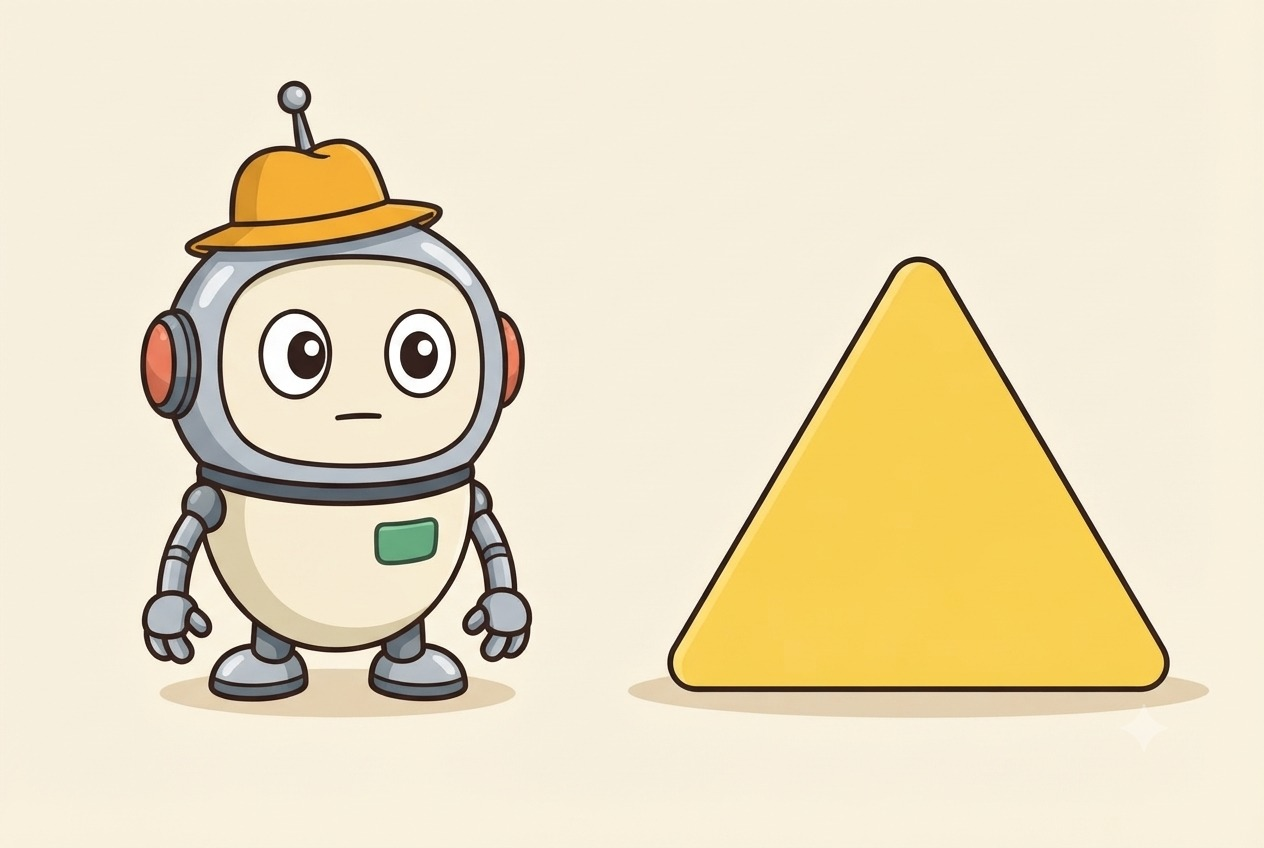
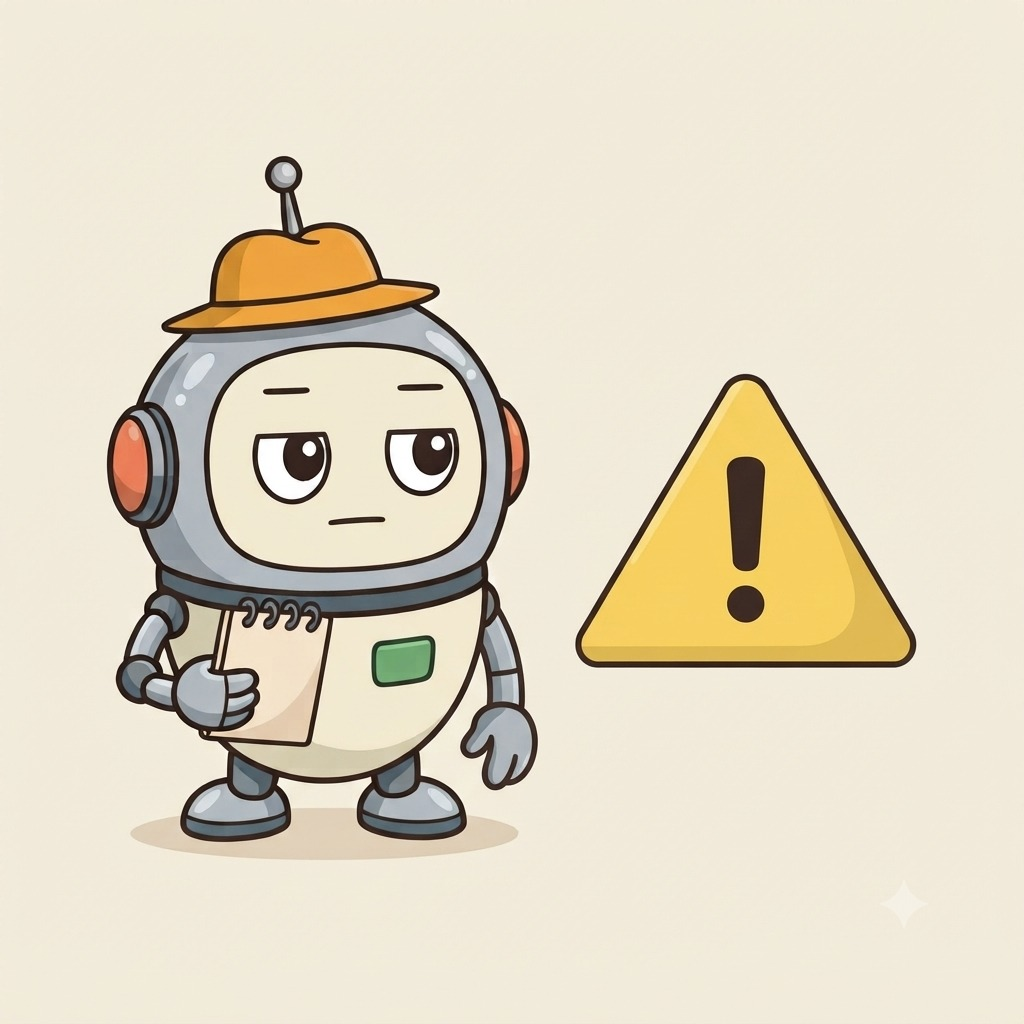
Comic v2: consistent text, calm art for serious stories, sensitive flag

Changed region(s): [[0.0938, 0.092, 0.9688, 0.8585]]

diff --git a/PanelPulse_v2/comic.py b/PanelPulse_v2/comic.py
@@ -2,6 +2,7 @@ import html
 import re
 from functools import lru_cache
 from pathlib import Path
+from urllib.parse import urlparse
 
 from PIL import Image, ImageDraw, ImageFont, ImageOps
 
@@ -9,7 +10,7 @@ DARK = "#263238"
 
 # ---- Layout numbers ----
 W, H = 2000, 2000
-HEADER = 100
+HEADER = 120
 MARGIN = 30
 PANEL_W = (W - 3 * MARGIN) // 2
 PANEL_H = (H - HEADER - 3 * MARGIN) // 2
@@ -47,9 +48,9 @@ def make_panels(headline, summary):
     headline = clean_text(headline)
     sentences = split_sentences(clean_text(summary))
     sentences = [s for s in sentences if not same_text(s, headline)]
-    key_fact = sentences[0] if len(sentences) > 0 else "The source has more details."
+    key_fact = sentences[0] if len(sentences) > 0 else "Full details are in the article."
     why = (sentences[1] if len(sentences) > 1
-           else "The feed gave only a short summary, so the details are in the full article.")
+           else "Read the full article for more details.")
     return [
         {"title": "The headline",   "caption": headline},
         {"title": "The key fact",   "caption": key_fact},
@@ -74,28 +75,60 @@ def wrap_text(text, font, max_width):
         else:
             if line:
                 lines.append(line)
-            line = word
+            line = ""
+            for character in word:
+                test = line + character
+                if line and _measure.textlength(test, font=font) > max_width:
+                    lines.append(line)
+                    line = character
+                else:
+                    line = test
     if line:
         lines.append(line)
     return lines
 
-def draw_caption(text, box, start_size=40, min_size=20):
-    left, top, right, bottom = box
-    width, height = right - left, bottom - top
+
+def _ellipsize(text, font, max_width):
+    suffix = "..."
+    while text and _measure.textlength(text + suffix, font=font) > max_width:
+        text = text[:-1]
+    return text.rstrip() + suffix
+
+
+def find_caption_font_size(captions, width, height, start_size=72, min_size=28):
     for size in range(start_size, min_size - 1, -2):
         font = load_font(size)
-        lines = wrap_text(text, font, width)
-        line_height = int(size * 1.25)
-        if len(lines) * line_height <= height:
-            break
+        line_height = max(1, int(size * 1.2))
+        if all(
+            len(wrap_text(caption, font, width)) * line_height <= height
+            for caption in captions
+        ):
+            return size
+    return min_size
+
+
+def draw_caption(text, box, font_size):
+    left, top, right, bottom = box
+    width, height = right - left, bottom - top
+    font = load_font(font_size)
+    line_height = max(1, int(font_size * 1.2))
+    lines = wrap_text(text, font, width)
+
     max_lines = max(1, height // line_height)
     if len(lines) > max_lines:
         lines = lines[:max_lines]
-        lines[-1] = lines[-1].rstrip(".,") + "..."
-    y = top
-    for line in lines:
-        draw.text((left, y), line, font=font, fill=DARK)
-        y += line_height
+        lines[-1] = _ellipsize(lines[-1], font, width)
+
+    for index, line in enumerate(lines):
+        draw.text((left, top + index * line_height), line, font=font, fill=DARK)
+
+
+def draw_panel_title(title, x, y, max_width):
+    for size in range(56, 27, -2):
+        font = load_font(size)
+        if _measure.textlength(title, font=font) <= max_width:
+            break
+    draw.text((x, y), title, font=font, fill=DARK)
 
 
 # =====================  PART 2: TOPIC (step 6)  =====================
@@ -118,6 +151,14 @@ TOPIC_WORDS = {
     "transport": ["flight", "train", "metro", "airport", "railway", "traffic"],
 }
 
+TRAGIC_WORDS = [
+    "killed", "dead", "death", "dies", "died", "murder", "blast",
+    "fire", "crash", "accident", "flood", "injured", "collapse",
+]
+SERIOUS_TOPICS = {"warning", "weather", "law", "health"}
+CHECKMARK_TOPICS = {"money", "school", "sports", "newspaper"}
+
+
 def pick_topic(headline, summary=""):
     text = ((headline + " ") * 2 + summary).lower()
     best_topic, best_score = "newspaper", 0
@@ -129,13 +170,55 @@ def pick_topic(headline, summary=""):
             best_topic, best_score = topic, score
     return best_topic
 
-def panel_plan(topic):
-    scene = "magnifier" if topic == "newspaper" else topic
+
+def is_serious_story(headline, summary="", topic=None):
+    if topic is None:
+        topic = pick_topic(clean_text(headline), clean_text(summary))
+    if topic in SERIOUS_TOPICS:
+        return True
+    story_text = f"{clean_text(headline)} {clean_text(summary)}"
+    tragic_pattern = r"\b(?:" + "|".join(map(re.escape, TRAGIC_WORDS)) + r")\b"
+    return re.search(tragic_pattern, story_text, flags=re.IGNORECASE) is not None
+
+
+def panel_plan(topic, sensitive=False):
+    serious = sensitive or topic in SERIOUS_TOPICS
+    has_topic = topic != "newspaper"
+    scene = topic if has_topic else "magnifier"
     if topic == "warning":
         moods = ["neutral", "thinking", "thinking", "neutral"]
     else:
         moods = ["neutral", "surprised", "thinking", "happy"]
-    scenes = ["newspaper", scene, scene, "checkmark"]
+
+    calm_newspaper_exists = scene_art_path("newspaper_calm") is not None
+    calm_closing_exists = scene_art_path("closing_calm") is not None
+    if serious:
+        opening = "newspaper_calm" if calm_newspaper_exists else "magnifier"
+        panel_three = (
+            "magnifier" if has_topic else
+            "newspaper_calm" if calm_newspaper_exists else
+            "newspaper"
+        )
+        closing = (
+            "closing_calm" if calm_closing_exists else
+            "newspaper_calm" if calm_newspaper_exists else
+            "magnifier"
+        )
+    else:
+        opening = "newspaper"
+        panel_three = (
+            "magnifier" if has_topic else
+            "newspaper_calm" if calm_newspaper_exists else
+            "newspaper"
+        )
+        if calm_closing_exists:
+            closing = "closing_calm"
+        elif topic in CHECKMARK_TOPICS:
+            closing = "checkmark"
+        else:
+            closing = "magnifier"
+
+    scenes = [opening, scene, panel_three, closing]
     return [{"scene": s, "mood": m} for s, m in zip(scenes, moods)]
 
 
@@ -246,25 +329,44 @@ SCENES = {
     "money": scene_money, "health": scene_health, "law": scene_law,
     "school": scene_school, "weather": scene_weather, "sports": scene_sports,
     "warning": scene_warning, "transport": scene_transport,
-    "newspaper": scene_newspaper, "magnifier": scene_magnifier,
+    "newspaper": scene_newspaper, "newspaper_calm": scene_newspaper,
+    "magnifier": scene_magnifier, "closing_calm": scene_magnifier,
     "checkmark": scene_checkmark,
 }
 
 # ---- The art pack: AI-made pictures in scene_art/ (png, jpg, jpeg or webp) ----
-@lru_cache(maxsize=None)
-def load_scene_art(scene, size):
+def scene_art_path(scene):
     for ext in ART_EXTENSIONS:
         path = ART_DIR / f"{scene}{ext}"
         if path.exists():
-            art = Image.open(path).convert("RGB")
-            return ImageOps.fit(art, size, method=Image.LANCZOS)   # crop to fill, no stretching
-    return None            # no file found: caller uses the shape drawing
+            return path
+    return None
 
-def draw_panel(x0, y0, number, title, caption, bg, scene, mood):
+
+@lru_cache(maxsize=None)
+def load_scene_art(scene, size):
+    path = scene_art_path(scene)
+    if path is None:
+        return None
+    try:
+        with Image.open(path) as source:
+            art = source.convert("RGB")
+        return ImageOps.fit(art, size, method=Image.LANCZOS)  # crop to fill, no stretching
+    except OSError as exc:
+        print(f"Could not load scene art {path}: {exc}; using the drawn fallback.")
+        return None
+
+
+def draw_panel(
+    x0, y0, number, title, caption, bg, scene, mood, caption_font_size,
+    mirror_art=False, force_fallback=False,
+):
     draw.rectangle((x0, y0, x0 + PANEL_W, y0 + PANEL_H), fill=bg, outline=DARK, width=6)
 
-    art = load_scene_art(scene, (PANEL_W - 12, ART_H - 12))
+    art = None if force_fallback else load_scene_art(scene, (PANEL_W - 12, ART_H - 12))
     if art:
+        if mirror_art:
+            art = ImageOps.mirror(art)
         canvas.paste(art, (x0 + 6, y0 + 6))
     else:                                   # fallback: shapes from steps 2 and 7
         draw_robot(x0 + 280, y0 + 350, 130, mood)
@@ -273,12 +375,44 @@ def draw_panel(x0, y0, number, title, caption, bg, scene, mood):
     cap_top = y0 + ART_H
     draw.rectangle((x0 + 3, cap_top, x0 + PANEL_W - 3, y0 + PANEL_H - 3), fill="#FFFBEF")
     draw.line((x0, cap_top, x0 + PANEL_W, cap_top), fill=DARK, width=5)
-    draw.text((x0 + 36, cap_top + 16), f"{number}. {title}", font=load_font(40), fill=DARK)
-    draw_caption(caption, (x0 + 36, cap_top + 76, x0 + PANEL_W - 36, y0 + PANEL_H - 20))
+    draw_panel_title(f"{number}. {title}", x0 + 36, cap_top + 12, PANEL_W - 72)
+    draw_caption(
+        caption,
+        (x0 + 36, cap_top + 88, x0 + PANEL_W - 36, y0 + PANEL_H - 18),
+        caption_font_size,
+    )
+
+
+def draw_header(source_url):
+    left_label = "PANELPULSE | AI-ASSISTED"
+    source_url = (source_url or "").strip()
+    parsed_url = urlparse(
+        source_url
+        if "://" in source_url or source_url.startswith("//")
+        else f"//{source_url}"
+    )
+    domain = parsed_url.netloc or "SOURCE UNAVAILABLE"
+    right_label = f"SOURCE: {domain}"
+    for size in range(54, 27, -2):
+        left_font = load_font(size)
+        if _measure.textlength(left_label, font=left_font) <= 900:
+            break
+    for size in range(54, 29, -2):
+        right_font = load_font(size)
+        if _measure.textlength(right_label, font=right_font) <= 900:
+            break
+    right_width = _measure.textlength(right_label, font=right_font)
+    if right_width > 900:
+        right_label = _ellipsize(right_label, right_font, 900)
+        right_width = _measure.textlength(right_label, font=right_font)
+
+    draw.rectangle((0, 0, W, HEADER), fill=DARK)
+    draw.text((MARGIN, 27), left_label, font=left_font, fill="#FFFFFF")
+    draw.text((W - MARGIN - right_width, 31), right_label, font=right_font, fill="#FFFFFF")
 
 
 # =====================  PART 4: THE ONE FUNCTION  =====================
-def make_comic(headline, summary=""):
+def make_comic(headline, summary="", source_url=""):
     global draw, canvas
     img = Image.new("RGB", (W, H), "#EDE6D6")
     draw = ImageDraw.Draw(img)
@@ -286,17 +420,39 @@ def make_comic(headline, summary=""):
 
     panels = make_panels(headline, summary)                       # step 5
     topic = pick_topic(clean_text(headline), clean_text(summary)) # step 6
-    plan = panel_plan(topic)                                      # step 6
+    sensitive = is_serious_story(headline, summary, topic)
+    plan = panel_plan(topic, sensitive)                           # step 6
     colors = ["#F7E8C8", "#E3F0E8", "#E4ECF7", "#F7E3E3"]
+    caption_width = PANEL_W - 72
+    caption_height = PANEL_H - ART_H - 106
+    caption_size = find_caption_font_size(
+        [panel["caption"] for panel in panels],
+        caption_width,
+        caption_height,
+    )
 
-    draw.rectangle((0, 0, W, HEADER), fill=DARK)
-    draw.text((30, 28), "PANELPULSE | AI-ASSISTED", font=load_font(44), fill="#FFFFFF")
+    draw_header(source_url)
 
+    seen_art_files = set()
     for i, p in enumerate(panels):                                # step 4
         x0 = MARGIN + (i % 2) * (PANEL_W + MARGIN)
         y0 = HEADER + MARGIN + (i // 2) * (PANEL_H + MARGIN)
+        art_path = scene_art_path(plan[i]["scene"])
+        duplicate_art = art_path is not None and art_path in seen_art_files
+        mirror_art = (
+            duplicate_art
+            and sensitive
+            and i == 3
+            and plan[i]["scene"] == "magnifier"
+            and scene_art_path("closing_calm") is None
+            and scene_art_path("newspaper_calm") is None
+        )
+        force_fallback = duplicate_art and not mirror_art
+        if art_path is not None:
+            seen_art_files.add(art_path)
         draw_panel(x0, y0, i + 1, p["title"], p["caption"], colors[i],
-                   plan[i]["scene"], plan[i]["mood"])
+                   plan[i]["scene"], plan[i]["mood"], caption_size,
+                   mirror_art, force_fallback)
     return img
 
 
